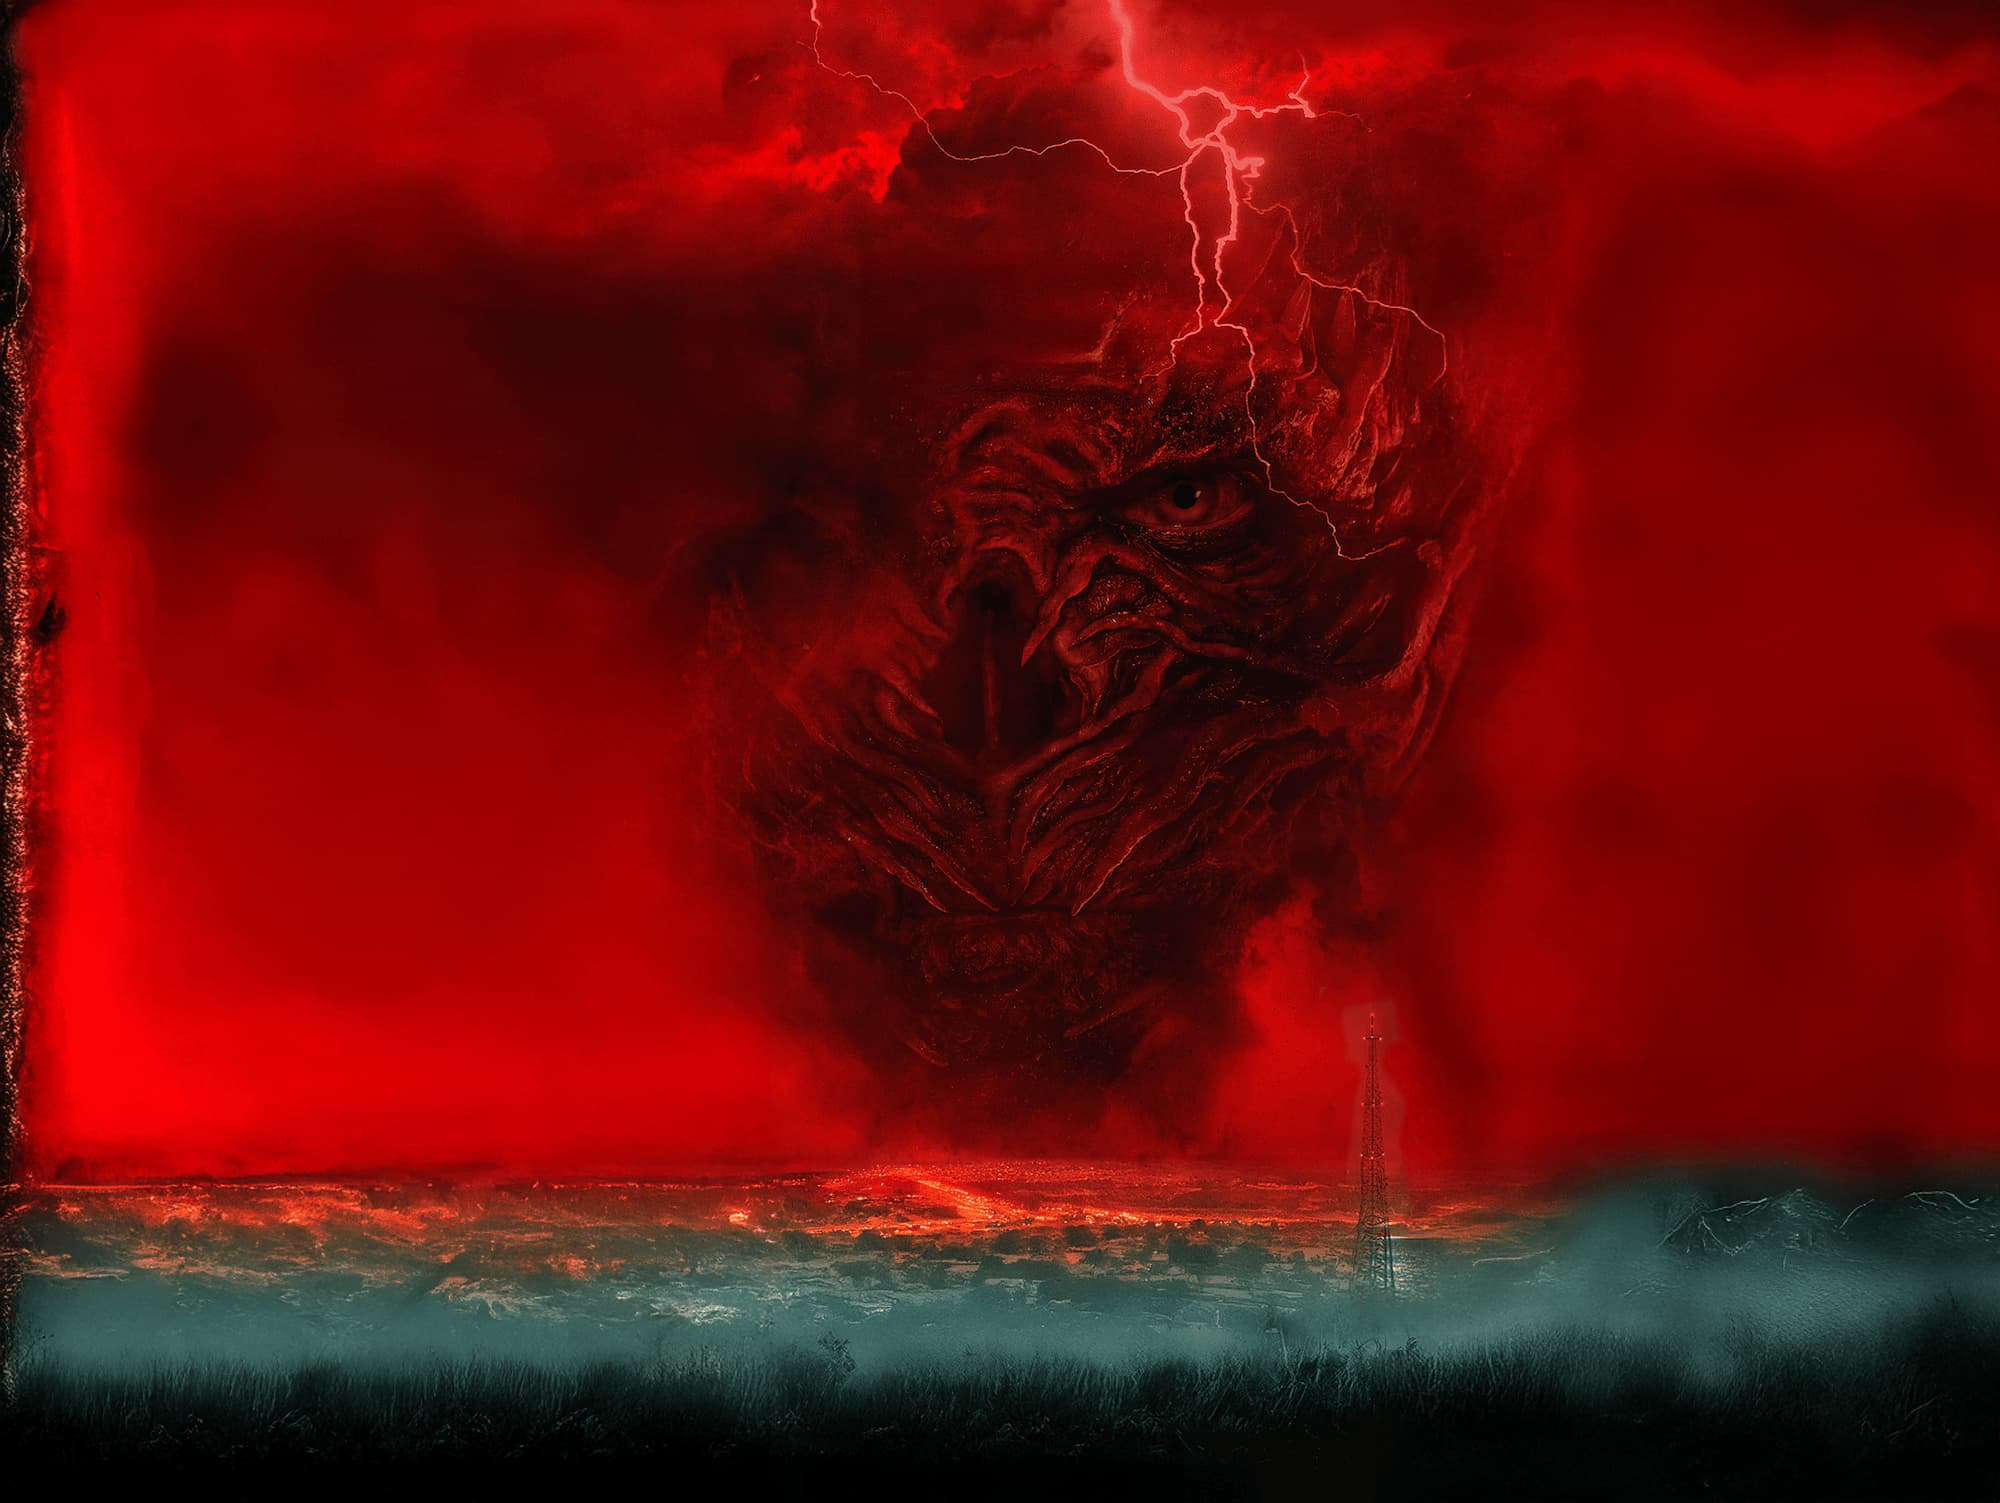
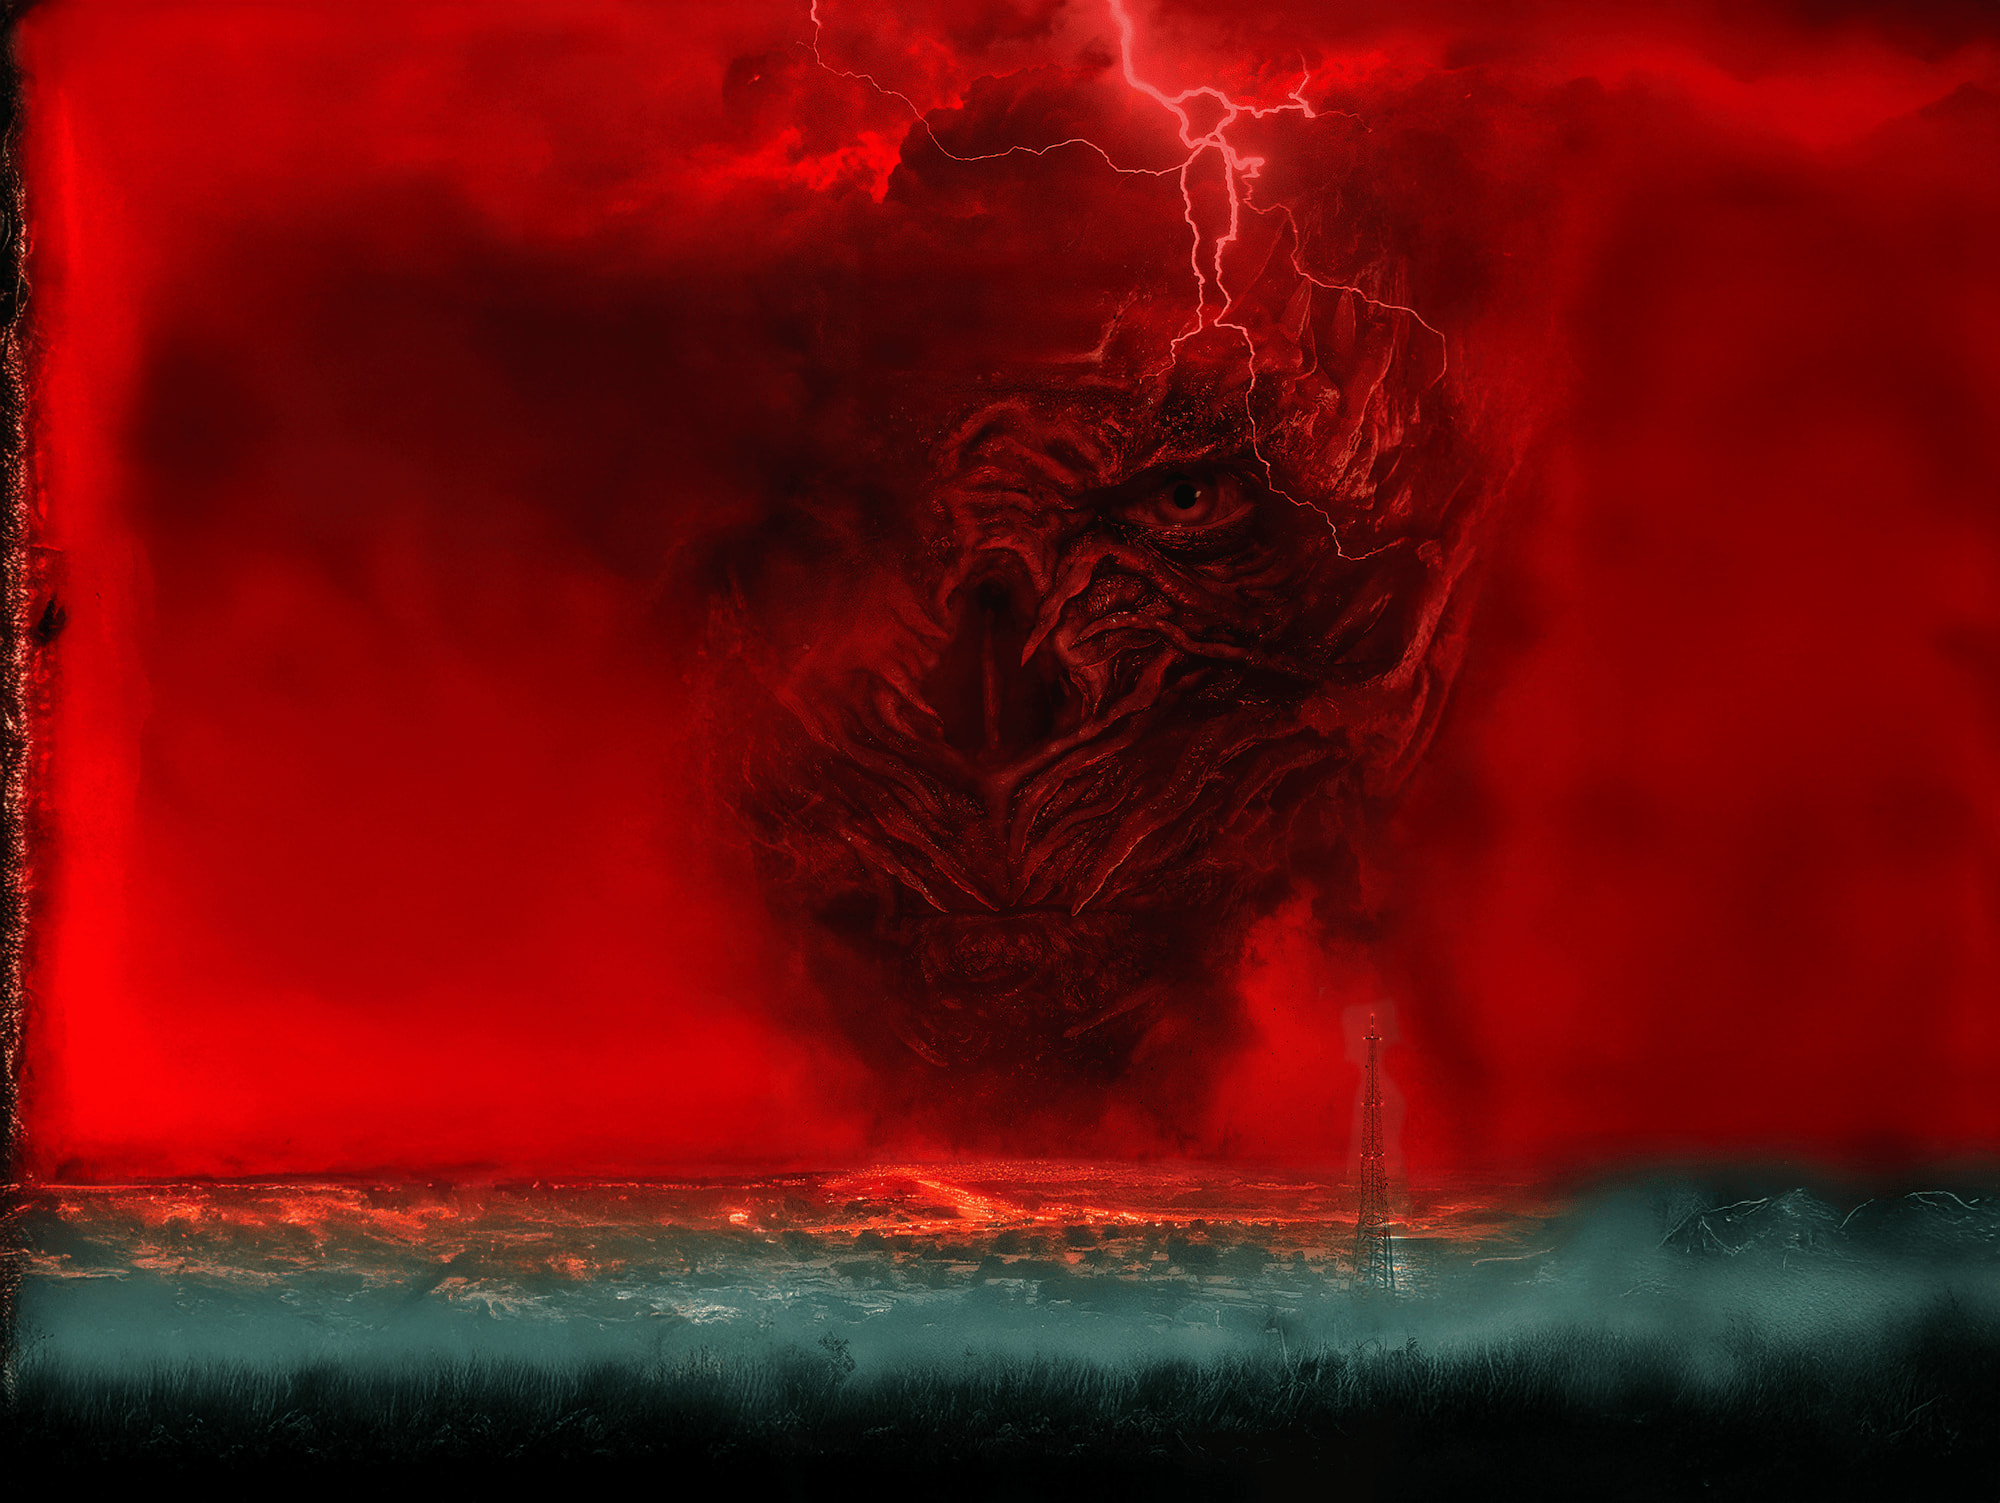
hero refine

diff --git a/src/components/Hero.jsx b/src/components/Hero.jsx
@@ -43,6 +43,7 @@ export const Hero = () => {
 
     gsap.to(image, {
       scale: 1.15,
+      y: -50,
       ease: "power3.out",
       scrollTrigger: {
         trigger: container,
@@ -54,6 +55,7 @@ export const Hero = () => {
 
     gsap.to(leftTreesRef.current, {
       x: -200,
+      y: -50,
       scale: 1.25,
       ease: "power3.out",
       scrollTrigger: {
@@ -65,6 +67,7 @@ export const Hero = () => {
     });
     gsap.to(rightTreesRef.current, {
       x: 200,
+      y: -50,
       scale: 1.25,
       ease: "power3.out",
       scrollTrigger: {
@@ -215,7 +218,7 @@ export const Hero = () => {
         {/* Background image */}
         <img
           ref={heroImageRef}
-          src="/strange-bg-sans-trees.png"
+          src="/strange-bg-sans-trees.jpg"
           alt=""
           style={{
             position: "absolute",